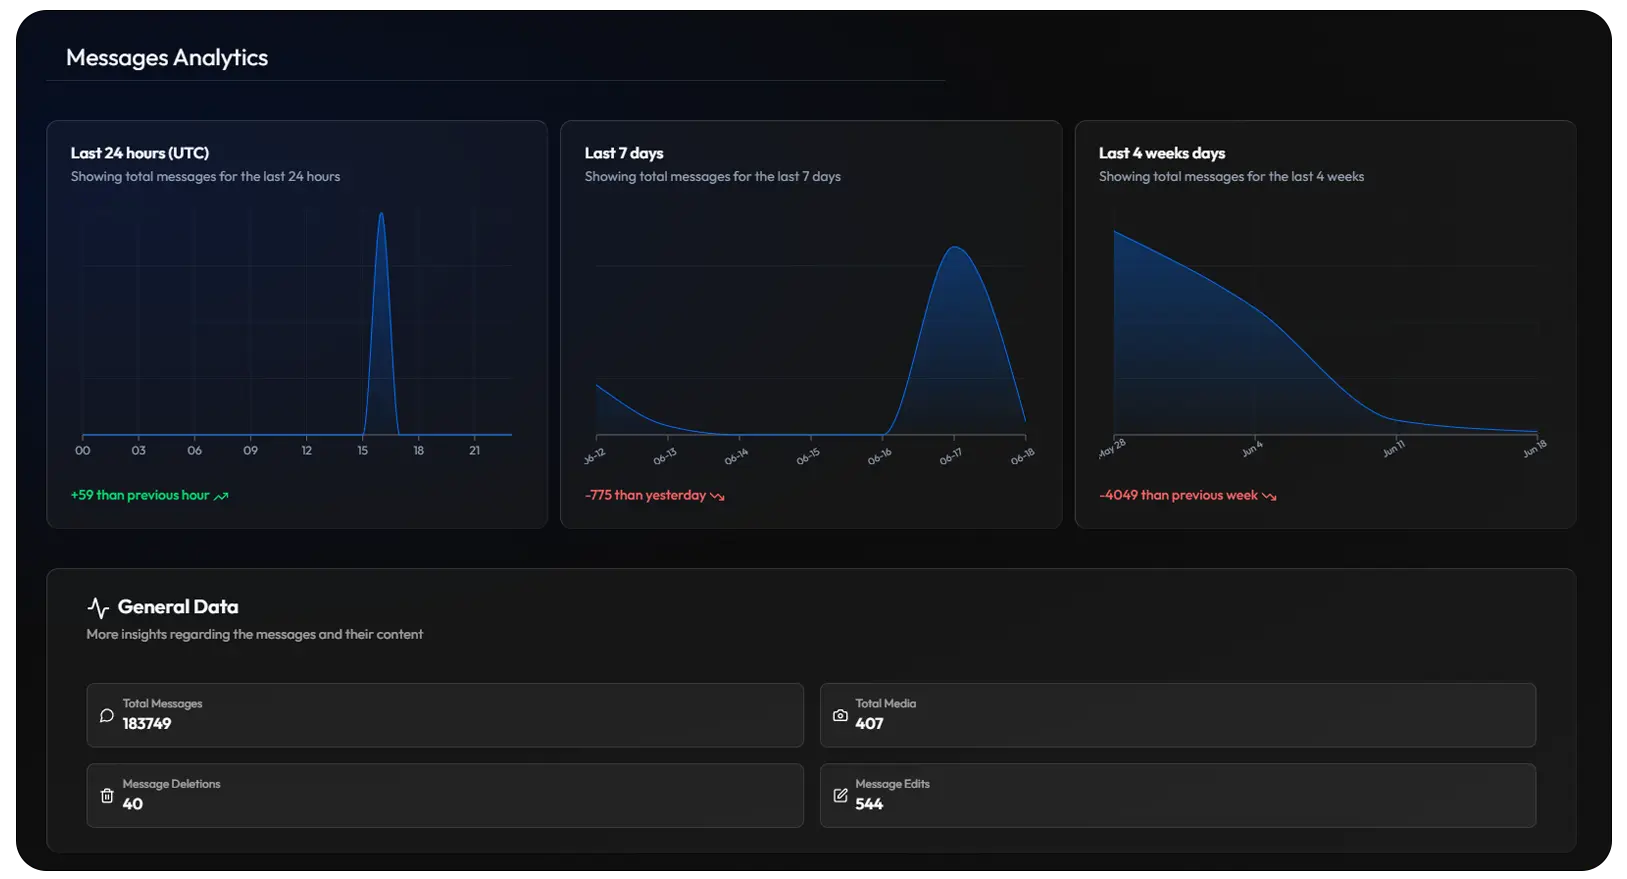
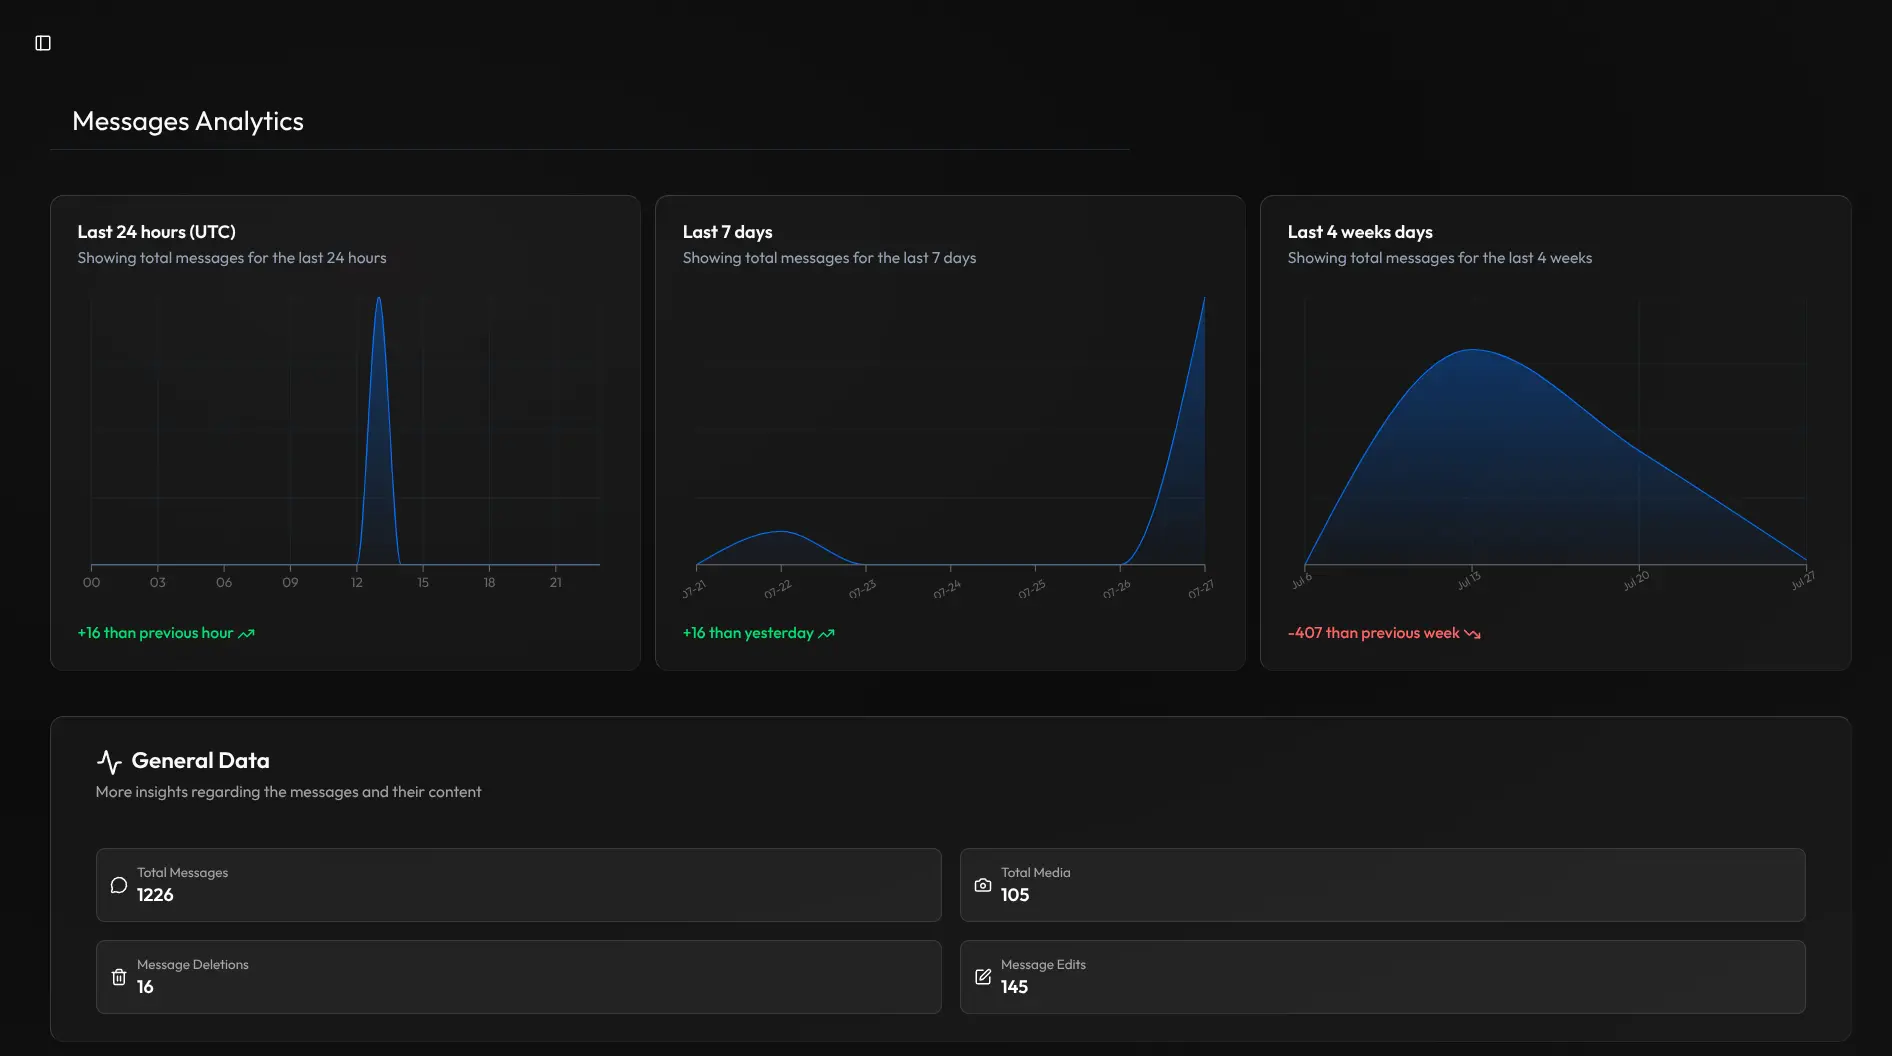
ref: Updated the images on the home page so they show the latest UI fixes

diff --git a/src/components/home.tsx b/src/components/home.tsx
@@ -54,7 +54,7 @@ export default function Home() {
             community.
           </p>
 
-          {/* 
+          {/*
           <div className="grid grid-cols-1 sm:grid-cols-3 gap-4 mb-8">
             <Card className="bg-[#0a1428] border-[#1a2234]">
               <CardContent className="p-4 text-center">
@@ -81,7 +81,7 @@ export default function Home() {
           <div className="flex flex-col sm:flex-row gap-4 justify-center">
             <Button className="font-medium" asChild>
               <a href="https://github.com/cially/cially">
-                <Github className="h-4 w-4 mr-2" />
+                <Github className="h-4 w-4" />
                 View on GitHub
               </a>
             </Button>
@@ -99,7 +99,7 @@ export default function Home() {
       <main>
         <div className="grid grid-cols-1 lg:grid-cols-2 place-items-center">
           <div className="w-full px-5 lg:px-20">
-            <img src="./screen-1.webp" />
+            <img src="./screen-1.webp" className="rounded-lg"/>
           </div>
           <div className="text-center">
             <h2 className="text-4xl sm:text-3xl font-bold mt-3">
@@ -118,7 +118,7 @@ export default function Home() {
 
         <div className="grid grid-cols-1 lg:grid-cols-2 place-items-center mt-20">
           <div className="w-full px-5 lg:px-20">
-            <img src="./screen-2.webp" />
+            <img src="./screen-2.webp" className="rounded-lg"/>
           </div>
           <div className="text-center">
             <h2 className="text-4xl sm:text-3xl font-bold mt-3">
@@ -136,7 +136,7 @@ export default function Home() {
 
         <div className="grid grid-cols-1 lg:grid-cols-2 place-items-center mt-20">
           <div className="w-full px-5 lg:px-20">
-            <img src="./screen-3.webp" />
+            <img src="./screen-3.webp" className="rounded-lg"/>
           </div>
           <div className="text-center">
             <h2 className="text-4xl sm:text-3xl font-bold mt-3">
